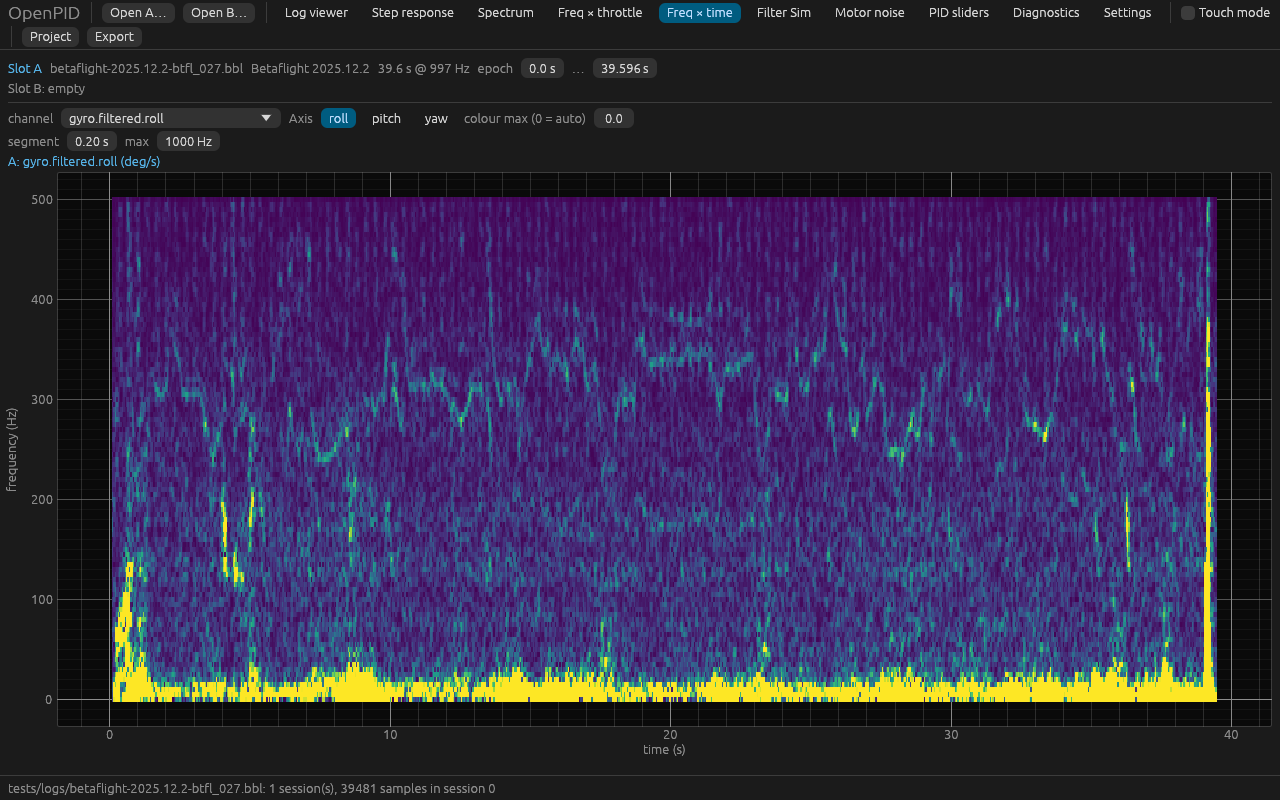
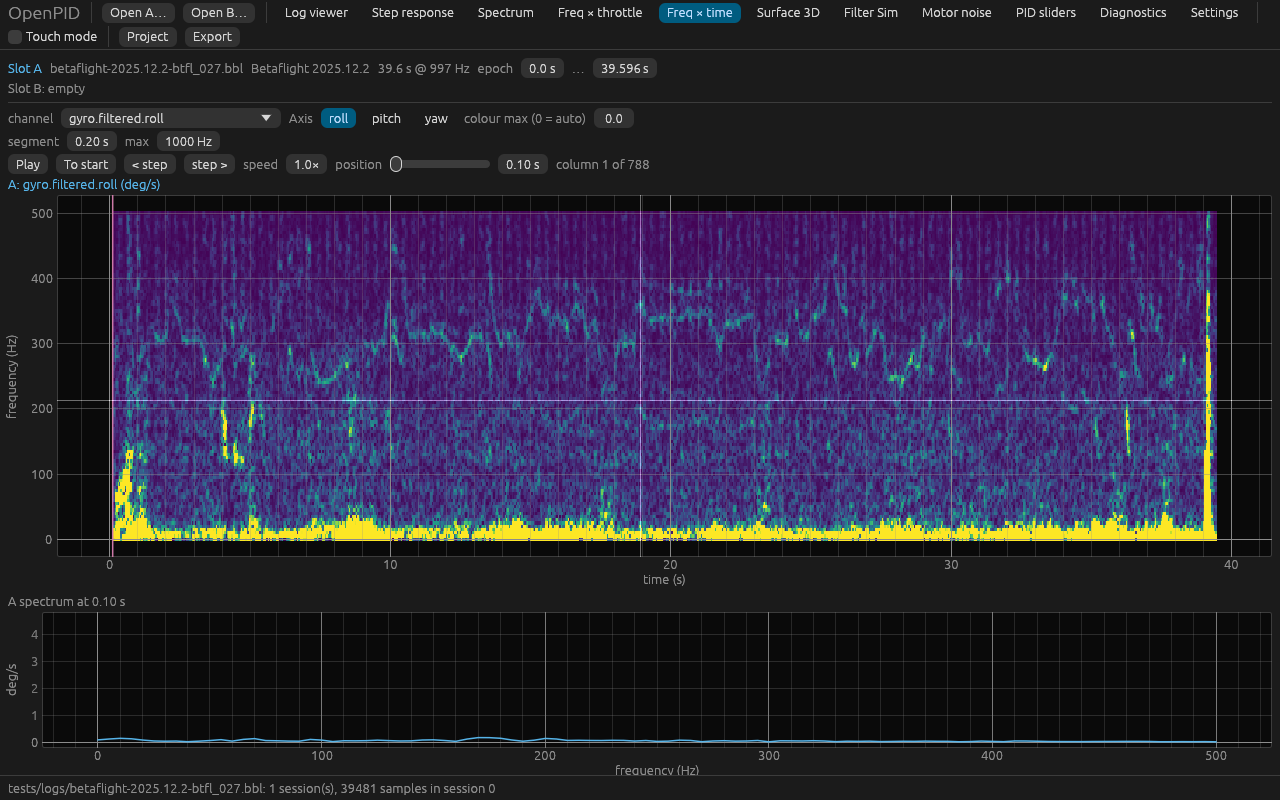
fix(gui): plain-text player buttons (the UI font has no media glyphs); freq × time screenshot (#90)
- The proportional egui font rendered the player's media glyphs as boxes:
  the buttons read Play / Pause / To start / < step / step > (both languages).
- `docs/screenshots/time.png` retaken with the player and linked from the
  user guide (§6).

Claude-Session: https://claude.ai/code/session_01RZdhNYUUBFBWTKFmkkfBUM

diff --git a/crates/openpid-app/src/tests.rs b/crates/openpid-app/src/tests.rs
@@ -1356,7 +1356,7 @@ fn time_heatmap_player_plays_scrubs_and_syncs_the_cursor() {
     assert!(has_label_containing(&h, "column 1 of"));
     assert!(has_label_containing(&h, "A spectrum at"));
     // play: 4 steps of 0.25 s advance one second at 1×
-    h.get_by_label("▶ Play").click();
+    h.get_by_label("Play").click();
     h.step();
     assert!(app(&h).player.playing);
     h.run_steps(5);
@@ -1373,7 +1373,7 @@ fn time_heatmap_player_plays_scrubs_and_syncs_the_cursor() {
     let fast = app(&h).player.pos_s.unwrap();
     assert!(fast - pos > 3.0, "{pos} → {fast} at 4×");
     // pause holds the position
-    h.get_by_label("⏸ Pause").click();
+    h.get_by_label("Pause").click();
     h.step();
     assert!(!app(&h).player.playing);
     let held = app(&h).player.pos_s;
@@ -1382,10 +1382,10 @@ fn time_heatmap_player_plays_scrubs_and_syncs_the_cursor() {
     assert_eq!(app(&h).player.pos_s, held);
     // one column either way
     let col = app(&h).player.column.unwrap();
-    h.get_by_label("step ▶").click();
+    h.get_by_label("step >").click();
     h.run_steps(2);
     assert_eq!(app(&h).player.column, Some(col + 1));
-    h.get_by_label("◀ step").click();
+    h.get_by_label("< step").click();
     h.run_steps(2);
     assert_eq!(app(&h).player.column, Some(col));
     // the log-viewer cursor moved: the player follows it
@@ -1408,16 +1408,16 @@ fn time_heatmap_player_plays_scrubs_and_syncs_the_cursor() {
     assert!((p - want).abs() < (b1 - b0) * 0.02, "{p} vs {want}");
     assert_eq!(app(&h).viewer.cursor_s, Some(p));
     // to start, then play past the end loops
-    h.get_by_label("⏮ To start").click();
+    h.get_by_label("To start").click();
     h.run_steps(2);
     assert_eq!(app(&h).player.pos_s, Some(x0));
     app_mut(&mut h).player.pos_s = Some(x1 - 0.1);
     app_mut(&mut h).player.speed = 1.0;
-    h.get_by_label("▶ Play").click();
+    h.get_by_label("Play").click();
     h.run_steps(3);
     assert!(app(&h).player.pos_s.unwrap() < x0 + 1.0, "looped");
     // touch: a drag over the heatmap scrubs instead of panning
-    h.get_by_label("⏸ Pause").click();
+    h.get_by_label("Pause").click();
     h.step();
     app_mut(&mut h).touch_mode = true;
     h.run_steps(4); // the touch zoom factor applies a frame later; the layout settles after
@@ -1438,7 +1438,7 @@ fn time_heatmap_player_plays_scrubs_and_syncs_the_cursor() {
     // without a log there is no player
     let mut h2 = harness(Vec::new(), Some(Tab::TimeHeatmap));
     h2.step();
-    assert!(h2.query_by_label("▶ Play").is_none());
+    assert!(h2.query_by_label("Play").is_none());
 }
 
 // ------------------------------------------------------------------ advice

diff --git a/crates/openpid-app/src/i18n.rs b/crates/openpid-app/src/i18n.rs
@@ -62,6 +62,7 @@ static UA: &[(&str, &str)] = &[
         "0 = as many as the RPM filter removes",
         "0 = стільки, скільки знімає RPM-фільтр",
     ),
+    ("< step", "< крок"),
     (
         "A log without eRPM: estimate motor speed from the gyro",
         "Лог без eRPM: оцінити оберти моторів з гіроскопа",
@@ -109,6 +110,8 @@ static UA: &[(&str, &str)] = &[
     ("Open…", "Відкрити…"),
     ("PID roll / pitch / yaw", "PID roll / pitch / yaw"),
     ("PID sliders", "PID-слайдери"),
+    ("Pause", "Пауза"),
+    ("Play", "Відтворити"),
     ("Plot as PNG…", "Графік як PNG…"),
     ("Project", "Проєкт"),
     ("Proposals", "Пропозиції"),
@@ -128,6 +131,7 @@ static UA: &[(&str, &str)] = &[
     ("Step response", "Перехідна характеристика"),
     ("Surface 3D", "Поверхня 3D"),
     ("Theme", "Тема"),
+    ("To start", "На початок"),
     ("Touch mode", "Сенсорний режим"),
     (
         "Touch mode (larger controls, touch gestures)",
@@ -190,7 +194,7 @@ static UA: &[(&str, &str)] = &[
     ("shading", "затінення"),
     ("smooth", "згладжування"),
     ("speed", "швидкість"),
-    ("step ▶", "крок ▶"),
+    ("step >", "крок >"),
     (
         "throttle bins with fewer segments are greyed out: they are unsampled, not quiet",
         "біни газу з меншою кількістю сегментів затемнені: там немає даних, а не тиша",
@@ -200,10 +204,6 @@ static UA: &[(&str, &str)] = &[
     ("type", "тип"),
     ("unmapped fields", "незіставлені поля"),
     ("window", "вікно"),
-    ("⏮ To start", "⏮ На початок"),
-    ("⏸ Pause", "⏸ Пауза"),
-    ("▶ Play", "▶ Відтворити"),
-    ("◀ step", "◀ крок"),
 ];
 
 #[cfg(test)]

diff --git a/crates/openpid-app/src/views.rs b/crates/openpid-app/src/views.rs
@@ -1711,23 +1711,19 @@ fn player_controls(
     ui.horizontal_wrapped(|ui| {
         let p = &mut app.player;
         if ui
-            .button(if p.playing {
-                tr("⏸ Pause")
-            } else {
-                tr("▶ Play")
-            })
+            .button(if p.playing { tr("Pause") } else { tr("Play") })
             .clicked()
         {
             p.playing = !p.playing;
             p.last_frame_time = None;
         }
-        if ui.button(tr("⏮ To start")).clicked() {
+        if ui.button(tr("To start")).clicked() {
             pos = x0;
         }
-        if ui.button(tr("◀ step")).clicked() {
+        if ui.button(tr("< step")).clicked() {
             pos = step(pos, -1);
         }
-        if ui.button(tr("step ▶")).clicked() {
+        if ui.button(tr("step >")).clicked() {
             pos = step(pos, 1);
         }
         let l = ui.label(tr("speed"));
